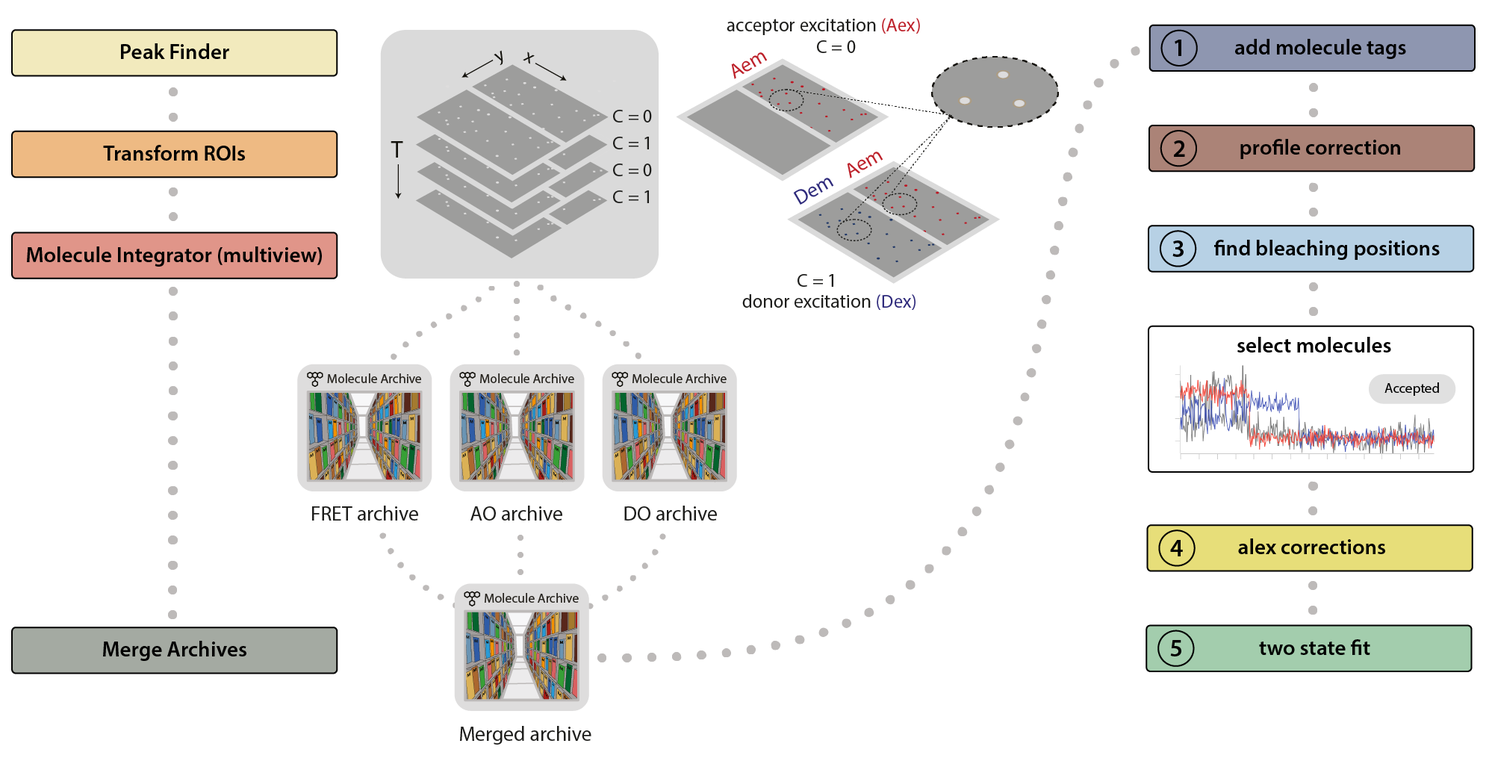
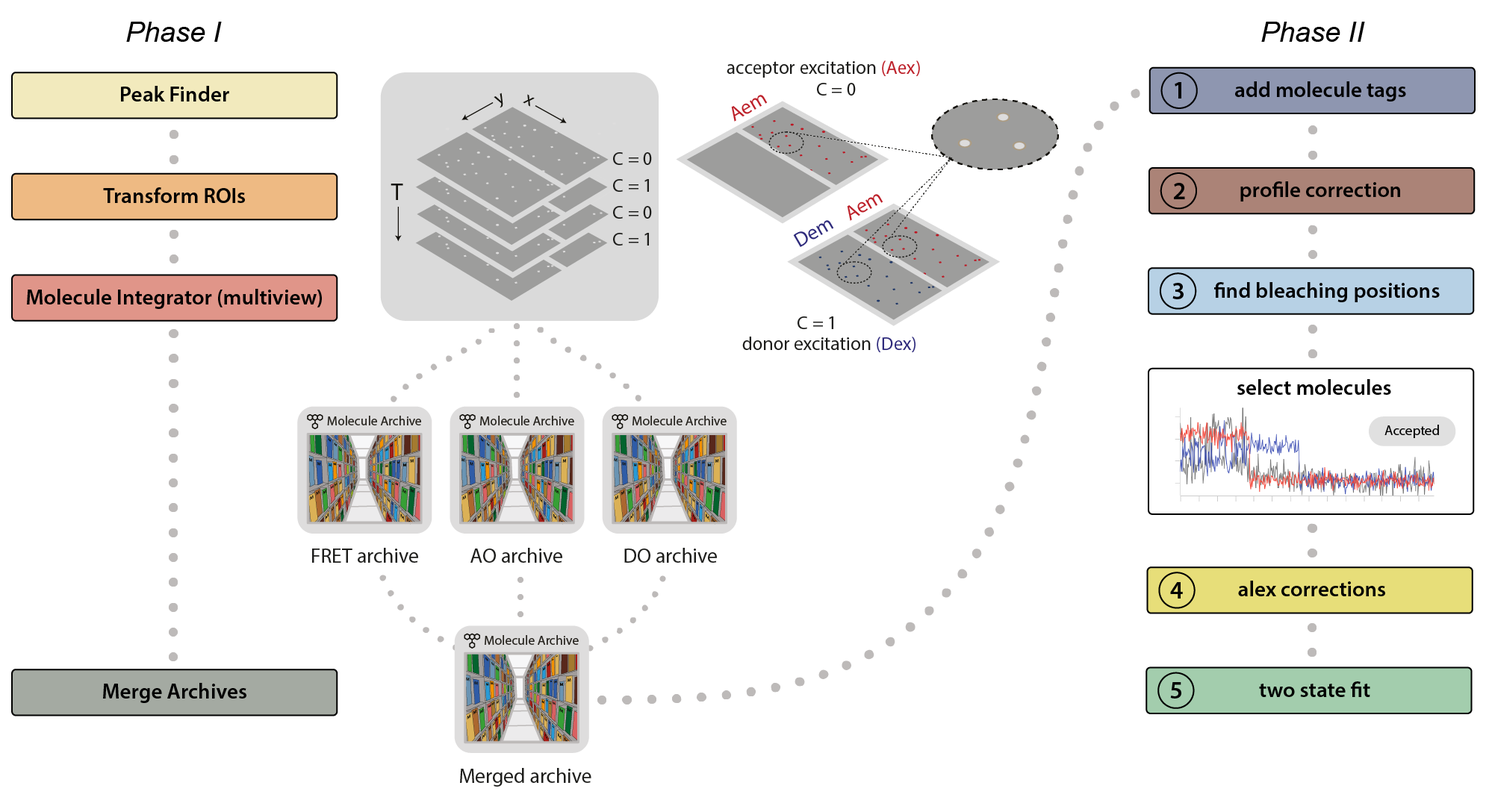
dynamic FRET example: figure and text revisions

diff --git a/examples/dynamic_fret.md b/examples/dynamic_fret.md
@@ -5,7 +5,7 @@ title: Mars workflow example for dynamic smFRET
 permalink: /examples/Dynamic_FRET/index.html
 ---
 
-This example presents a Mars workflow for the analysis of dynamic smFRET (single-molecule Förster Resonance Energy Transfer)<sup>[1](https://doi.org/10.1038/nmeth.1208)</sup> datasets collected using TIRF microscopy. The [sample data](https://doi.org/10.5281/zenodo.6659531) were collected using a surface-immobilized Holliday junction functionalized with donor and acceptor fluorophores positioned on different DNA arms <sup>[2](https://www.nature.com/articles/nchem.1463)</sup>. Imaging was conducted under high Mg<sup>2+</sup> concentrations to induce conformational switching of the DNA arms resulting in high and low FRET states.
+This example presents a Mars workflow for the analysis of dynamic smFRET (single-molecule Förster Resonance Energy Transfer) datasets collected using TIRF microscopy. The [sample data](https://doi.org/10.5281/zenodo.6659531) were collected using a surface-immobilized Holliday junction functionalized with donor and acceptor fluorophores positioned on different DNA arms.<sup>[1](https://doi.org/10.1038/nchem.1463)</sup> Imaging was conducted under high Mg<sup>2+</sup> concentrations to induce conformational switching of the DNA arms resulting in high and low FRET states.
 
 <div style="text-align: center">
 <img align='center' src='{{site.baseurl}}/examples/img/index/dynamic_FRET_example.png' width='900' /></div>
@@ -30,19 +30,19 @@ This example presents a Mars workflow for the analysis of dynamic smFRET (single
 The [dataset](https://doi.org/10.5281/zenodo.6659531) contains ten separate image sequences each representing a different field of view from the same sample. Imaging was conducted on a micro-mirror TIRF microscope with a dual view using [Micro-Manager 2.0](https://micro-manager.org/Version_2.0). The detection area of the camera is split in half, with each half displaying the signal from a different wavelength. In this way emission can be measured for two wavelengths at the same time and signal correlation is possible. In practice, for this dataset, this means that red emission is collected and shown on the top half, and the green emission on the bottom half of the image (figure 3). Furthermore, the dataset has two channels. One channel for red excitation (C=0) with a 637 nm laser and another for green excitation (C=1) with a 532 nm laser as denoted below by I<sub>emission|excitation</sub>. The intensities of peaks are integrated during analysis, used for corrections and the calculation of final E and S distributions.
 
 **The Analysis Procedure**  
-This example was developed in a modular fashion to illustrate how workflows can be built using Mars and to simplify the process of customization for processing other FRET datasets. The workflow has two major phases. In the first phase, displayed below on the left, the emission peaks from the molecules are located and fluorescence intensity is integrated to generate Molecule Archives for donor only (DO), acceptor only (AO), and FRET populations. These are merged into one Molecule Archive that is used in phase two, displayed on the right, where a sequence of [groovy scripts provided in the mars-tutorials repository](https://github.com/duderstadt-lab/mars-tutorials/tree/master/Example_workflows/FRET/scripts) are used to process the merged Molecule Archive. This includes identification of bleaching positions, scoring intensity traces, and calculating correction factors.
+This example was developed in a modular fashion to illustrate how workflows can be built using Mars and to simplify the process of customization for processing other FRET datasets. The workflow has two major phases. In the first phase, displayed below on the left, the emission peaks from the molecules are located and fluorescence intensity is integrated to generate Molecule Archives for donor only (DO), acceptor only (AO), and FRET populations. These are merged into one Molecule Archive that is used in _Phase II_, displayed on the right, where a sequence of [groovy scripts provided in the mars-tutorials repository](https://github.com/duderstadt-lab/mars-tutorials/tree/master/Example_workflows/FRET/scripts) are used to process the merged Molecule Archive. This includes identification of bleaching positions, scoring intensity traces, and calculating correction factors.
 
 <div style="text-align: center">
 <img align='center' src='{{site.baseurl}}/examples/img/fret/dynamic/dynamic_FRET_workflow_overview.png' width='1000'></div>
 
-**Phase 1: Locate molecules and integrate fluorescence**
+**_Phase I_: Locate molecules and integrate fluorescence**
    * Identify the peaks (molecule locations) in the top and bottom regions.
    * Correlate the peaks in the top and bottom regions to find which molecules have only red emission (acceptor only, AO), only green emission (donor only, DO), or emission from both dyes (FRET).
    * Extract the intensity (I) vs. time (T) traces of all molecules and store this information in a Molecule Archive.
    * Tag the metadata record of each Molecule Archive with DO, AO, or FRET depending on the molecules selected and integrated.
-   * Merge all three of the Molecule Archives (DO, AO, and FRET) in preparation for phase 2.
+   * Merge all three of the Molecule Archives (DO, AO, and FRET) in preparation for _Phase II_.
 
-**Phase 2: Corrections, E and S calculation, kinetic analysis**
+**_Phase II_: Corrections, E and S calculation, kinetic analysis**
 1. Run the [add molecule tags](https://github.com/duderstadt-lab/mars-tutorials/tree/master/Example_workflows/FRET/scripts/FRET_workflow_1_add_molecule_tags.groovy) groovy script. This script adds the tags on the metadata records (DO, AO, and FRET) to the corresponding molecule records.
 2. Run the [profile correction](https://github.com/duderstadt-lab/mars-tutorials/tree/master/Example_workflows/FRET/scripts/FRET_workflow_2_profile_correction.groovy) groovy script. This script corrects for differences in the beam intensity across the field of view.
 3. Run the [find bleaching positions](https://github.com/duderstadt-lab/mars-tutorials/tree/master/Example_workflows/FRET/scripts/FRET_workflow_3_find_bleaching_positions.groovy) groovy script. This script adds the donor and acceptor bleaching positions (T) to the molecule records. Evaluate the intensity traces and add the Accepted tag to passing molecules.
@@ -83,7 +83,7 @@ Table 1: Affine2D conversion matrix values. Transforms from the top (acceptor em
 More information about the calculation of this matrix can be found in the [Affine2D tutorial](https://duderstadt-lab.github.io/mars-docs/tutorials/affine2D/HowToCalculateAffine2D/)
 
 ---
-### Phase 1
+### Phase I
 #### <a name="3"></a> Find and integrate molecules
 To calculate all FRET parameters and correction factors three different populations in the sample are of interest: the acceptor only (AO) population, the donor only (DO) population and the FRET population. To facilitate easy data analysis an archive is created for each of these populations separately. These are then later on merged together while ensuring the metadata records for each of these archives is tagged appropriately so molecules are correctly tagged. These tags are used when calculating the correction factors.
 
@@ -184,21 +184,22 @@ To create the donor only (DO) Archive, follow the procedure in the section 'The 
 Tag the single metadata record in the resulting Molecule Archive with DO and save it with the name DO_Archive.yama.
 
 ##### Merge Archives
-The final step in phase 1 is to merge all the archives we created into one. This is required to use the scripts in phase 2 that expect AO, DO, and FRET tagged populations. Before merging the archives confirm that the metadata record in each archive is tagged with FRET, AO, or DO consistent with the steps above. If not, make sure to tag them now. All the archives (FRET_Archive.yama, AO_Archive.yama, and DO_Archive.yama) need to be placed in the same folder. Next, use the Merge Archives command (Plugins>Mars>Molecule>Merge Archive) and select the folder. When the command is finished, a merged archive is created that can be found in the same folder (merged.yama).
+The final step in _Phase I_ is to merge all the archives we created into one. This is required to use the scripts in _Phase II_ that expect AO, DO, and FRET tagged populations. Before merging the archives confirm that the metadata record in each archive is tagged with FRET, AO, or DO consistent with the steps above. If not, make sure to tag them now. All the archives (FRET_Archive.yama, AO_Archive.yama, and DO_Archive.yama) need to be placed in the same folder. Next, use the Merge Archives command (Plugins>Mars>Molecule>Merge Archive) and select the folder. When the command is finished, a merged archive is created that can be found in the same folder (merged.yama).
 *Note:* it is very important to save the archives after metadata tagging. Otherwise, the tag will not be in the merged archive and errors will be raised in the subsequent analysis steps.
 
 <div style="text-align: center">
 <img align='center' src='{{site.baseurl}}/examples/img/fret/dynamic/img31.png' width='250'></div>
 
-### Phase 2
-**&#10112; add molecule tags**
+---
+### Phase II
+**1 add molecule tags**
 
-Open the merged Molecule Archive created at the end of phase 1. This should contain three metadata records, one for each archive that was merged and they should have appropriate tags (FRET, AO, or DO). Run the [add molecule tags](https://github.com/duderstadt-lab/mars-tutorials/tree/master/Example_workflows/FRET/scripts/FRET_workflow_1_add_molecule_tags.groovy) groovy script on the merged Molecule Archive. This script adds the tags on the metadata records to the corresponding molecule records. This can be confirmed by examining the tags on the records in the molecules tab. The rest of the scripts in the workflow require molecule tags.
+Open the merged Molecule Archive created at the end of _Phase I_. This should contain three metadata records, one for each archive that was merged and they should have appropriate tags (FRET, AO, or DO). Run the [add molecule tags](https://github.com/duderstadt-lab/mars-tutorials/tree/master/Example_workflows/FRET/scripts/FRET_workflow_1_add_molecule_tags.groovy) groovy script on the merged Molecule Archive. This script adds the tags on the metadata records to the corresponding molecule records. This can be confirmed by examining the tags on the records in the molecules tab. The rest of the scripts in the workflow require molecule tags.
 
 <div style="text-align: center">
 <img align='center' src='{{site.baseurl}}/examples/img/fret/dynamic/add_molecule_tags_metadata.png' width='650'></div>
 <div style="text-align: center">
-Input: Merged Molecule Archive from phase 1 containing three metadata records each with the appropriate tag.
+Input: Merged Molecule Archive from _Phase I_ containing three metadata records each with the appropriate tag.
 </div>
 <div style="text-align: center">
 <img align='center' src='{{site.baseurl}}/examples/img/fret/dynamic/add_molecule_tags_molecules.png' width='650'></div>
@@ -206,7 +207,7 @@ Input: Merged Molecule Archive from phase 1 containing three metadata records ea
 Output: Updated merged Molecule Archive with all molecule records tagged to match their metadata records.
 </div>
 
-**&#10113; profile correction**
+**2 profile correction**
 
 Next run the [profile correction](https://github.com/duderstadt-lab/mars-tutorials/tree/master/Example_workflows/FRET/scripts/FRET_workflow_2_profile_correction.groovy) groovy script, which corrects for differences in the beam profile intensities across the field of view. This script will take the merged Molecule Archive and the [beam profiles](https://doi.org/10.5281/zenodo.6659531) included with the sample data as inputs. You will be presented with a dialog when running the script to specify the input files that should already be open in Fiji and the column names for Aem\|Aex as well as Dem\|Dex. This script will add a new corrected Aem\|Aex column with the suffix _Profile_Corrected that will be used in later for in the alex corrections script.  
 
@@ -217,7 +218,7 @@ Next run the [profile correction](https://github.com/duderstadt-lab/mars-tutoria
 
 The beam profile correction images were generated using time points at the end of the sample data videos after all dyes bleached (in the range 900 to 1000). The Image>Stacks>Z Project... command was used to generate the mean intensity image from ~10 frames at the end of the video. This mean image was median filtered to remove any remaining features. Images were created for channel 0 (aex_profile) and channel 1 (dex_profile). For the script to work properly the maximum pixel value in the image must be in the region to be corrected. Therefore, the top region of the dex_profile images was deleted to remove remaining crosstalk in the acceptor region. Alternatively, profile images can be created using samples with high dye concentrations.
 
-**&#10114; find bleaching positions**
+**3 find bleaching positions**
 
 To correctly assess the FRET parameters, it is important to find out the bleaching time points of both dyes and to identify the first dye that bleached. Only the frames of the video up until that point are relevant for FRET. Find the bleaching positions using the [find bleaching positions](https://github.com/duderstadt-lab/mars-tutorials/tree/master/Example_workflows/FRET/scripts/FRET_workflow_3_find_bleaching_positions.groovy) groovy script.
 
@@ -234,29 +235,36 @@ Representable molecule trace showing the raw intensities of Iaemaex (red line), 
 </div>
 
 **Plot the traces and add the Accepted tag to passing molecules**  
-Open the plot sub-tab in the molecules tab and add three line plots representing the three measured intensities (I<sub>aemaex</sub>, I<sub>demdex</sub> & I<sub>aemdex</sub>), if applicable, for each molecule. To do so select the options as shown in the screenshot.
-In the screenshot below the red line represents I<sub>aemaex</sub>, the grey line I<sub>aemdex</sub> (FRET), and the blue line I<sub>demdex</sub>. These are the three intensity vs. time traces that are required for further FRET calculations.
+Open the plot sub-tab in the molecules tab and add three line plots representing the three measured intensities (I<sub>aemaex</sub>, I<sub>demdex</sub> & I<sub>aemdex</sub>), if applicable, for each molecule. To do so select the options as shown in the screenshot. The red line represents I<sub>aemaex</sub> (AO), the grey line I<sub>aemdex</sub> (FRET), and the blue line I<sub>demdex</sub> (DO). These are the three intensity vs. time traces that are required for further FRET calculations.
 
 <div style="text-align: center">
 <img align='center' src='{{site.baseurl}}/examples/img/fret/dynamic/img30.png' width='850'></div>
 
-Only molecules marked with the Accepted tag will be used for further analysis. Take care to ensure a consistent set of criteria are applied when marking Accepted molecule records (e.g. stable acceptor signal, high signal-to-noise, anti-correlated donor and acceptor emission in the FRET region, low background, sufficient FRET life time prior to the first dye bleach event, etc.). The selection of suitable AO and DO molecules is equally important to ensure accurate determination of the alpha and delta correction factors that will significantly influence the calculation of beta and gamma. Longer lifetimes, high signal-to-noise, and low background are particularly important. The results of our classification can be directly examined in the [holliday_junction_merged.yama and accompanying holliday_junction_merged.yama.rover file](https://github.com/duderstadt-lab/mars-tutorials/tree/master/Example_workflows/FRET/dynamic) final archive for this example that is available from the [mars-tutorials](https://github.com/duderstadt-lab/mars-tutorials/) repository.
+Only molecules marked with the Accepted tag will be used for further analysis. Take care to ensure a consistent set of criteria are applied when marking Accepted molecule records. We used the following criteria for this example:
+- There is only 1 donor and only 1 acceptor bleaching step observed in the molecule trace
+- Both donor and acceptor are present (in the case of FRET-tagged molecules)
+- No major deviations or changes in signal intensity are observed that could indicate an artefact
+- The fluorescent signal is significantly higher than the noise of the background
+- Donor and acceptor signals are anti-correlated in the FRET region
+- There is sufficient FRET life time prior to the first dye bleach event
 
-The FRET validation notebook provides a report with several measures of the quality of the final set of molecules with the Accepted tag.
+The selection of suitable AO and DO molecules is equally important to ensure accurate determination of the alpha and delta correction factors that will significantly influence the calculation of beta and gamma. Longer lifetimes, high signal-to-noise, and low background are particularly important. The results of our classification can be directly examined in the [holliday_junction_merged.yama and accompanying holliday_junction_merged.yama.rover file](https://github.com/duderstadt-lab/mars-tutorials/tree/master/Example_workflows/FRET/dynamic) final archive for this example that is available from the [mars-tutorials](https://github.com/duderstadt-lab/mars-tutorials/) repository.
 
-**&#10115; alex corrections**
+The hot key combinations for molecule tagging can be set in the settings tab of the Molecule Archive. This speeds up the process of tagging significantly. Finally, a validation notebook provided in the [mars-tutorials](https://github.com/duderstadt-lab/mars-tutorials/) repository offers a report with several measures for the quality of the final set Accepted molecules.
+
+**4 alex corrections**
 
 Run the [alex corrections](https://github.com/duderstadt-lab/mars-tutorials/tree/master/Example_workflows/FRET/scripts/FRET_workflow_4_alex_corrections.groovy) groovy script on the Molecule Archive with tagged Accepted molecules. This script calculates all alex correction factors to generate the fully corrected I vs. T traces as well as the FRET efficiency (E) and stoichiometry (S) values.
 
 <div style="text-align: center">
 <img align='center' src='{{site.baseurl}}/examples/img/fret/dynamic/alex_corrections_dialog.png' width='500'></div>
 
-(we should add a table that specifies what all the columns mean...)
+*Trace-wise background correction*  
 
-**Trace-wise Background Correction**  
 The first correction that is applied to the dataset is a background correction. In this trace-wise process the mean fluorophore intensity after fluorophore bleaching is considered to be the background signal and is subtracted from the calculated fluorophore intensity. This is done for each intensity measurement (I<sub>aemaex</sub>, I<sub>demdex</sub> & I<sub>aemdex</sub>) separately and in a trace-wise manner. The values of the corrected I parameters are stored in the archive as <sup>ii</sup>I<sub>aemaex</sub>, <sup>ii</sup>I<sub>demdex</sub> & <sup>ii</sup>I<sub>aemdex</sub> respectively. The mean background intensities are stored as molecule parameters (532_Green_Background, 532_Red_Background, and 637_Red_Background).
 
-**Correction for Leakage ($\alpha$) and Direct excitation ($\delta$)**  
+*Correction for leakage ($\alpha$) and direct excitation ($\delta$)*
+
 In the next step, two data corrections are carried out: a correction for leakage, the process of donor emission in the acceptor detection channel, and a correction for direct excitation, the process of acceptor emission by direct excitation of the acceptor at the donor wavelength. Both lead to signal intensity distortions when uncorrected and would influence the measured FRET parameters. Therefore they are corrected in this part of the analysis procedure. For more information about these correction parameters the reader is referred to literature<sup>[9](https://doi.org/10.1038/s41592-018-0085-0)</sup>.
 
 The leakage ($\alpha$) and direct excitation ($\delta$) correction factors can be calculated using the formulae below. As indicated, these formulae require the calculated fluorescence intensities from the DO and AO populations respectively. Subsequently, they are implemented in the latter three formulae to find the corrected E and S values. The $\alpha$ and $\delta$ correction factors as well as the calculated F<sub>A|D</sub>, <sup>iii</sup>E<sub>app</sub><sup>(DO)</sup>, and <sup>iii</sup>S<sub>app</sub><sup>(AO)</sup> values will appear as parameters in the archive.
@@ -278,7 +286,8 @@ $$\begin{equation}
 ^{iii}S_{app} = \frac{F_{A|D} + ^{ii}I_{Dem|Dex}}{F_{A|D} + ^{ii}I_{Dem|Dex} + ^{ii}I_{Aem|Aex}}
 \end{equation}$$
 
-**Correction for Excitation ($\beta$) and Detection factors ($\gamma$)**  
+*Correction for excitation ($\beta$) and detection ($\gamma$) factors*
+
 The last data correction step corrects for excitation ($\beta$), normalizing excitation intensities and cross-sections of both acceptor and donor, and detection factors ($\gamma$), normalizing effective fluorescence quantum yields and detection efficiencies of both donor and acceptor. To find both global correction factors a linear regression analysis is performed with the following formula.
 Note: Each value of iiiEapp and iiiSapp is included in the regression. This means that longer traces have a larger weight in the final fit since these traces contribute a larger number of data points to the dataset used to make a fit.
 
@@ -317,52 +326,76 @@ S = \frac{F_{A|D} + F_{D|D}}{F_{D|D} + F_{A|D} + F_{A|A}}
 
 \end{equation}$$
 
-**&#10116; two state fit**
+**Molecule table columns**
 
-Finally, run the [two state fit](https://github.com/duderstadt-lab/mars-tutorials/tree/master/Example_workflows/FRET/scripts/FRET_workflow_5_two_state_dwell_times.groovy) groovy script, which adds a segments table making the high and low E states based using the threshold provided.
+| Molecule table column | Description    | Channel | Region | Added by |
+| :------------- | :------------- | :------------- | :------------- | :------------- |
+| T | OME time points | all | all | Molecule Integrator (multiview) |
+| 637\_Red\_Time\_(s) | Time in seconds if discovered in the image metadata | 637 | Red | Molecule Integrator (multiview) |
+| 637_Red_X | X coordinate of molecule position | 637 | Red | Molecule Integrator (multiview) |
+| 637_Red_Y | Y coordinate of molecule position | 637 | Red | Molecule Integrator (multiview) |
+| 637_Red | Local median background corrected integrated intensity |  637 | Red | Molecule Integrator (multiview) |
+| 637_Red_Median_Background | Local median background intensity |  637 | Red | Molecule Integrator (multiview) |
+| 637_Red_Uncorrected | Raw integrated intensity with no background correction |  637 | Red | Molecule Integrator (multiview) _Verbose mode_ |
+| 637_Red_Mean_Background | Local mean background intensity | 637 | Red | Molecule Integrator (multiview) _Verbose mode_ |
+| 532\_Red\_Time\_(s) | Time in seconds if discovered in the image metadata | 637 | Red | Molecule Integrator (multiview) |
+| 532_Red_X | X coordinate of molecule position | 532 | Red | Molecule Integrator (multiview) |
+| 532_Red_Y | Y coordinate of molecule position | 532 | Red | Molecule Integrator (multiview) |
+| 532_Red | Local median background corrected integrated intensity |  532 | Red | Molecule Integrator (multiview) |
+| 532_Red_Median_Background | Local median background intensity | 532 | Red | Molecule Integrator (multiview) |
+| 532_Red_Uncorrected | Raw integrated intensity with no background correction |  532 | Red | Molecule Integrator (multiview) _Verbose mode_ |
+| 532_Red_Mean_Background | Local mean background intensity | 532 | Red | Molecule Integrator (multiview) _Verbose mode_ |
+| 532\_Green\_Time\_(s) | Time in seconds if discovered in the image metadata | 532 | Green | Molecule Integrator (multiview) |
+| 532_Green_X | X coordinate of molecule position | 532 | Green | Molecule Integrator (multiview) |
+| 532_Green_Y | Y coordinate of molecule position | 532 | Green | Molecule Integrator (multiview) |
+| 532_Green | Local median background corrected integrated intensity | 532 | Green | Molecule Integrator (multiview) |
+| 532_Green_Median_Background | Local median background intensity | 532 | Green | Molecule Integrator (multiview) |
+| 532_Green_Uncorrected | Raw integrated intensity with no background correction |  532 | Green | Molecule Integrator (multiview) _Verbose mode_ |
+| 532_Green_Mean_Background | Local mean background intensity | 532 | Green | Molecule Integrator (multiview) _Verbose mode_ |
+| 637_Red_Profile_Corrected | Local median background corrected, beam profile corrected, integrated intensity |  637 | Red | 2 profile correction |
+| iiIdemdex | Donor emission after subtracting mean background after photobleaching | 532 | Green | 4 alex corrections |
+| iiIaemaex | Acceptor emission after subtracting mean background after photobleaching | 637 | Red | 4 alex corrections |
+| iiIaemdex | Acceptor emission from FRET after subtracting mean background after photobleaching | 532 | Red | 4 alex corrections |
+| iiEapp | FRET efficiency after correcting for background after photobleaching | - | - | 4 alex corrections |
+| iiSapp | Stoichiometry after correcting for background after photobleaching | - | - | 4 alex corrections |
+| FAD | Acceptor emission from FRET corrected for background, leakage ($\alpha$), direct excitation ($\delta$) | 532 | Red | 4 alex corrections |
+| iiiEapp | FRET efficiency after correcting for background, leakage ($\alpha$), direct excitation ($\delta$) | - | - | 4 alex corrections |
+| iiiSapp | Stoichiometry after correcting for background, leakage ($\alpha$), direct excitation ($\delta$) | - | - | 4 alex corrections |
+| FDD | Donor emission after correcting for background, excitation ($\beta$) and detection ($\gamma$) factors | 532 | Green | 4 alex corrections |
+| FAA | Acceptor emission after correcting for background, excitation ($\beta$) and detection ($\gamma$) factors | 532 | Green | 4 alex corrections |
+| E | Fully corrected FRET efficiency (background, $\alpha$, $\delta$, $\beta$, $\gamma$) | - | - | 4 alex corrections |
+| S | Fully corrected stoichiometry (background, $\alpha$, $\delta$, $\beta$, $\gamma$) | - | - | 4 alex corrections |
 
-===
-Section finished till here
+**5 two state fit**
+
+Finally, run the [two state fit](https://github.com/duderstadt-lab/mars-tutorials/tree/master/Example_workflows/FRET/scripts/FRET_workflow_5_two_state_dwell_times.groovy) groovy script to identify the dwells times for each state. This very simple script identifies regions with high and low FRET (E) based using the columns and threshold value provided in the dialog. This should be the fully corrected E values and the time in seconds.
+
+<div style="text-align: center">
+<img align='center' src='{{site.baseurl}}/examples/img/fret/dynamic/FRET_workflow_5_two_state_fit_dialog.png' width='450'></div>
+
+The dwell time information is added to each molecule record as a segments table that shows up in a new tab. This table has the starting and ending coordinates for the segments. The script calculates the mean E value for each state and assigns all segments with that value (A column). The slope of the segments is zero in this case (B column). This column is used for kinetic analysis of [tracking results](../track-position-on-DNA/).
+
+<div style="text-align: center">
+<img align='center' src='{{site.baseurl}}/examples/img/fret/dynamic/FRET_workflow_5_segments_table.png' width='850'></div>
+
+The segments can be viewed in the molecule plot tab by checking the segments box in the plot options panel. The segments will only be displayed if the X and Y columns match those used to generate the segments table. The mean lifetime of each state is determined by fitting the distribution of dwell times for each state with exponential decay function. This is done in Python in the [jupyter notebook](https://github.com/duderstadt-lab/mars-tutorials/blob/master/Example_workflows/FRET/dynamic/dynamic_FRET_example.ipynb) accompanying this example.
+
+<div style="text-align: center">
+<img align='center' src='{{site.baseurl}}/examples/img/fret/dynamic/FRET_workflow_5_segments_plotted.png' width='850'></div>
+
+*Comments: The [two state fit](https://github.com/duderstadt-lab/mars-tutorials/tree/master/Example_workflows/FRET/scripts/FRET_workflow_5_two_state_dwell_times.groovy) script uses a very simple model that leverages the pre-existing information we have about the system used in this example. The [kinetic change point (KCP)](../../docs/kcp/ChangePointFinder/) command provides a more general option for kinetic analysis that makes no assumptions about the number of states or their E values. The timescale of FRET transitions should be carefully considered. The KCP command, as well as other kinetic analysis tools, provide the best results when the lifetime of FRET states is much longer than the sampling rate. This ensures the FRET states are well resolved over the background noise. The transition rates between FRET states can also be determined using hidden Markov models. Currently, there is no HHM command integrated into Mars. Our suggestion would be to use the python package [pomegranate](https://pomegranate.readthedocs.io/en/latest/) in a jupyter notebook. The results can be added in a segments table and the rate constants as parameters to Mars records. We are working on an example notebook for hidden Markov models. Follow this [issue](https://github.com/duderstadt-lab/mars-tutorials/issues/1) for details. Comment on the issue if you have an urgent need for this.*  
 
 ---
 
+#### <a name="9"></a> Data Exploration in Python
 
+Once you have completed the analysis steps above, you are left with a Molecule Archive containing the results from the complete analysis of Pos0 from Holliday junction dataset. To increase the number of observations, the workflow above should be repeated for additional positions (fields of view). We repeated the workflow for Pos1, Pos2, and Pos3. We then merged the Molecule Archives from all positions together for further analysis. This final Molecule Archive is available in the [mars-tutorials](https://github.com/duderstadt-lab/mars-tutorials/) repository in the files [holliday_junction_merged.yama and accompanying holliday_junction_merged.yama.rover](https://github.com/duderstadt-lab/mars-tutorials/tree/master/Example_workflows/FRET/dynamic).
 
-**Selecting the traces to be included in further analysis**
-Before proceeding with the following part of automated analysis, it is required to inspect the traces manually and assign the tag 'Accepted' for all molecules fulfilling the requirements:
-- There is only 1 donor and only 1 acceptor bleaching step observed in the molecule trace
-- Both donor and receptor are present (in the case of FRET-tagged molecules)
-- No major deviations or changes in signal intensity are observed that could indicate an artefact
-- The fluorescent signal is significantly higher than the noise of the background
-- No switching events are observed in the trace
-
-
-
-
-
-#### <a name="9"></a> Plotting & Data Exploration in Python
-To explore the data save the generated archive and open the [Jupyter notebook](https://github.com/duderstadt-lab/mars-tutorials). Set up the connection to your local copy of Fiji as indicated and change the file path to the archive. Please note that running the notebook requires the set-up of a new python environment. Directions to do so can be found in this [tutorial](https://duderstadt-lab.github.io/mars-docs/tutorials/marsto/open-a-Molecule-Archive-in-Python/). After running all cells a plot is obtained showing the fully corrected E and S values for all molecules that matched the selection criteria in this archive.  
-_Note that the analysis of a single video from the dataset such as done in this example leads to a low number of data points. This affects the accuracy of the calculated correction factors and E and S values. On top of that, a reliable beta/gamma correction is possible only when the data consists of 2 populations at the minimum. Therefore the reliability of the outcome of this example is compromised. The accuracy can be improved by analyzing all videos supplied in the repository corresponding to this dataset. The outcome of such an analysis is presented in the next paragraph._
+Final distributions are generated using the [dynamic FRET example jupyter notebook](https://github.com/duderstadt-lab/mars-tutorials/blob/master/Example_workflows/FRET/dynamic/dynamic_FRET_example.ipynb) provided in the [mars-tutorials repository](https://github.com/duderstadt-lab/mars-tutorials). This notebook requires the file path to a local copy of [holliday_junction_merged.yama](https://github.com/duderstadt-lab/mars-tutorials/tree/master/Example_workflows/FRET/dynamic) and Fiji as inputs. Please note that running the notebook requires the set-up of a new python environment. Directions to do so can be found in this [tutorial](https://duderstadt-lab.github.io/mars-docs/tutorials/marsto/open-a-Molecule-Archive-in-Python/). After running all cells several charts are generated showing E and S values for each stage of corrections and the fully correction distributions together with the results of kinetic analysis.  
 
 <div style="text-align: center">
-<img align='center' src='{{site.baseurl}}/examples/img/fret/1-lo_analyzed.png' width='350'></div>
-
-This analysis shows that an average population FRET value of E = 0.28 was obtained from this single dataset. Please note that this value is rather distorted because of the low number of data points and data available for correction. Also, since only one sample is taken into consideration the beta/gamma correction is distorting the results. Therefore it is not a good estimate for the FRET efficiency of the sample. Please continue to the following section for a better estimate considering all available videos.
-
-
----
-
-#### <a name="10"></a> Conclusion: Global Analysis Outcomes and Comparisons to Literature
-The described analysis can be repeated for all provided videos for both the 1-lo and 1-mid sample datasets to obtain the E and S values more reliably for both samples. The outcome of such an extensive analysis can be found in the [repository](https://github.com/duderstadt-lab/mars-tutorials) with all accompanying scripts and archives. Please note that in order to analyze all data a specific procedure needs to be followed. Please read the read-me file in the repository with further instructions.
-
-The final plot of this analysis shows that the FRET populations are observed at E= 0.18 (1-lo) and E= 0.52 (1-mid). This is in agreement with the values as published by Hellenkamp *et al.* <sup>[9](https://doi.org/10.1038/s41592-018-0085-0)</sup> who reported E-values of E = 0.15 +/- 0.02 (1-lo) and E = 0.56 +/- 0.03 (1-mid) respectively.
-
-<div style="text-align: center">
-<img align='center' src='{{site.baseurl}}/examples/img/fret/Final_with_fits.png' width='450'></div>
-
-
-In conclusion, this example Mars workflows showed that Mars is a software platform that is equipped to do a robust, transparent, traceable, and reliable data analysis for FRET experiments. Since the results of the analysis are in complete agreement with those of Hellenkamp *et al.* <sup>[9](https://doi.org/10.1038/s41592-018-0085-0)</sup> this proves Mars is well-equipped to be used in the analysis of these type of datasets.
-
+<img align='center' src='{{site.baseurl}}/examples/img/fret/dynamic/Final_ES_chart.png' width='500'>
+<img align='center' src='{{site.baseurl}}/examples/img/fret/dynamic/Final_dwell_time_charts.png' width='300'></div>
 
 #### <a name="12"></a> Troubleshooting
 This section highlights some of the common errors or problems that may occur during following along with the example as well as possible solutions. Please reference the table below in case you encounter any problems during the analysis. If your question has not been answered in this section, please feel free to [reach out](https://forum.image.sc/tag/mars) to our lab by making a forum post.
@@ -370,25 +403,13 @@ This section highlights some of the common errors or problems that may occur dur
 | Problem Description     | Solution     |
 | :------------- | :------------- |
 | Most parameters (E, S, iEapp, iSapp) display NaN values       | This most often happens because some of the metadata tags are missing. Solution: check in the metadata tab if the metadata records are tagged 'FRET', 'AO', and 'DO' respectively. Solution: add the correct tag to the metadata. This problem often arises when the archive has been tagged, but has not been saved, before merging using the 'merge archives' tool.     |
-| No datapoints are obtained in the Rover bubble plot       | This indicates that either the plotting script did not run correctly or somewhere during the analysis no data was found or was interpreted wrongly yielding either no E and S values or values that are out of bound. Solution: first check if the plotting script ran correctly. Move to the 'log' tab in the plotting widget (the little book icon). If the script did not run correctly an error is displayed. Solve the error by adjusting the script in the script tab. Common mistakes include copy-paste errors or selection of the wrong language (needs to be Python). If this is not the answer to your problem, check in the archive whether the parameters 'iEapp', 'iSapp', 'E', and 'S' have reasonable values for the molecules that were tagged 'Active_single'. (1) In case NaN values are observed please take a look at the first problem-solution pair in this overview. (2) In case 'weird' values are observed for E and S either one of the correction steps or the peak integration steps are off. Check the parameter values of alpha, beta, gamma, and delta in the metadata parameters tab (should all be between 0 and 2). In case beta and gamma are not within boundaries, try to run script7_fixed instead of the normal script7. Else, verify if the correct settings have been used in the 'peak finder' and 'molecule integrator' tools. Refresh the plot after solving the issue.        |
-| No peaks were found by the 'peak finder'       | This might be the  case when the 'peak finder' settings (especially threshold settings) are entered wrongly. Solution: verify that the correct 'peak finder' settings were entered in the dialog and run the analysis again.       |
-| The ROI manager is empty after running the 'transform ROIs' tool       | This behavior can be caused by two issues: (1) there were no peaks placed in the ROI manager by the 'peak finder' or (2) the ROI manager was not closed or reset before doing running the transform ROIs tool on a second dataset. Solution: (1) check if the 'peak finder' settings are entered correctly and use the 'preview' option to verify that the tool finds the peaks. Check if the 'Add to ROI manager' option is selected in the menu. (2) close the ROI manager and run the analysis again, starting from the 'peak finder' command.     |
-| The archive or script editor freezes during the analysis       | This occasionally happens, especially when Fiji has been active on your computer for a little longer. Solution: close Fiji and retry the analysis after a software restart.       |
+| No peaks were found by the 'peak finder'       | This might be the case when the Peak Finder settings (especially threshold settings) are not correct. Solution: verify that the correct Peak Finder settings were entered in the dialog and run the analysis again.       |
+| The ROI manager is empty after running the Transform ROIs command       | This behavior can be caused by two issues: (1) there were no peaks placed in the ROI Manager by the Peak Finder or (2) the ROI Manager was not closed or reset before doing running the transform ROIs command on a second dataset. Solution: (1) check if the Peak Finder settings are entered correctly and use the 'preview' option to verify that the command finds the peaks. Check if the 'Add to ROI Manager' option is selected in the tab. (2) close the ROI Manager and run the analysis again, starting from the Peak Finder command.     |
+| The archive or script editor freezes during analysis       | We have observed this during develop on rare occasions, especially when the same Fiji session has been active on your computer for a long time. Solution: close Fiji and retry the analysis after a software restart. Saving several copies of the archive during processing is best practive.       |
 | No I vs. T plots are observed after entering the x and y settings in the plotting menu       | Solution: refresh the plot by pressing the refresh button at the bottom right corner of the plot settings menu       |
 | No output is generated after running a Mars tool       | Either the input settings were selected in such a way that no output is expected, or the tool encountered an error. Solution: (1) verify the settings of the tool. (2) Check for red printed errors in the Fiji Console window (Window>Console). Either resolve the error by selecting different settings in the Mars tool dialog window or run the tool again.    |
 | No changes are made to the Archive after running one of the scripts       | It might be that the script encountered an error and did not run till completion. Solution: open the 'Console' window (Window>Console) in Fiji and see if any red errors are raised. If so, resolve the error and run the script again.       |
 
-
-
-
 #### <a name="11"></a> References
 
-(1) 	Roy, R.; Hohng, S.; Ha, T. A Practical Guide to Single-Molecule FRET. Nat. Methods 2008, 5 (6), 507–516. https://doi.org/10.1038/nmeth.1208.  
-(2) 	Stryer, L.; Haugland, R. P. Energy Transfer: A Spectroscopic Ruler. Proc. Natl. Acad. Sci. U. S. A. 1967, 58 (2), 719–726. https://doi.org/10.1073/pnas.58.2.719.  
-(3) 	Ha, T.; Enderle, T.; Ogletree, D. F.; Chemla, D. S.; Selvin, P. R.; Weiss, S. Probing the Interaction between Two Single Molecules: Fluorescence Resonance Energy Transfer between a Single Donor and a Single Acceptor. Proc. Natl. Acad. Sci. U. S. A. 1996, 93 (13), 6264–6268. https://doi.org/10.1073/pnas.93.13.6264.  
-(4) 	Mekler, V.; Kortkhonjia, E.; Mukhopadhyay, J.; Knight, J.; Revyakin, A.; Kapanidis, A. N.; Niu, W.; Ebright, Y. W.; Levy, R.; Ebright, R. H. Structural Organization of Bacterial RNA Polymerase Holoenzyme and the RNA Polymerase-Promoter Open Complex. Cell 2002, 108 (5), 599–614. https://doi.org/10.1016/s0092-8674(02)00667-0.  
-(5) 	Choi, U. B.; Strop, P.; Vrljic, M.; Chu, S.; Brunger, A. T.; Weninger, K. R. Single-Molecule FRET–Derived Model of the Synaptotagmin 1–SNARE Fusion Complex. Nat. Struct. Mol. Biol. 2010, 17 (3), 318–324. https://doi.org/10.1038/nsmb.1763.  
-(6) 	Hellenkamp, B.; Wortmann, P.; Kandzia, F.; Zacharias, M.; Hugel, T. Multidomain Structure and Correlated Dynamics Determined by Self-Consistent FRET Networks. Nat. Methods 2017, 14 (2), 174–180. https://doi.org/10.1038/nmeth.4081.  
-(7) 	Schuler, B.; Eaton, W. A. Protein Folding Studied by Single-Molecule FRET. Curr. Opin. Struct. Biol. 2008, 18 (1), 16–26. https://doi.org/10.1016/J.SBI.2007.12.003.  
-(8) 	Colombo, S.; Broggi, S.; Collini, M.; D’Alfonso, L.; Chirico, G.; Martegani, E. Detection of CAMP and of PKA Activity in Saccharomyces Cerevisiae Single Cells Using Fluorescence Resonance Energy Transfer (FRET) Probes. Biochem. Biophys. Res. Commun. 2017, 487 (3), 594–599. https://doi.org/10.1016/J.BBRC.2017.04.097.  
-(9) 	Hellenkamp, B.; Schmid, S.; Doroshenko, O.; Opanasyuk, O.; Kühnemuth, R.; Rezaei Adariani, S.; Ambrose, B.; Aznauryan, M.; Barth, A.; Birkedal, V.; et al. Precision and Accuracy of Single-Molecule FRET Measurements—a Multi-Laboratory Benchmark Study. Nat. Methods 2018, 15 (9), 669–676. https://doi.org/10.1038/s41592-018-0085-0.  
+(1) 	Hyeon C, Lee J, Yoon J, Hohng S, Thirumalai D. Hidden complexity in the isomerization dynamics of Holliday junctions. Nat Chem. 2012 Nov;4(11):907-14. [https://doi.org/10.1038/nchem.1463](https://doi.org/10.1038/nchem.1463).  
